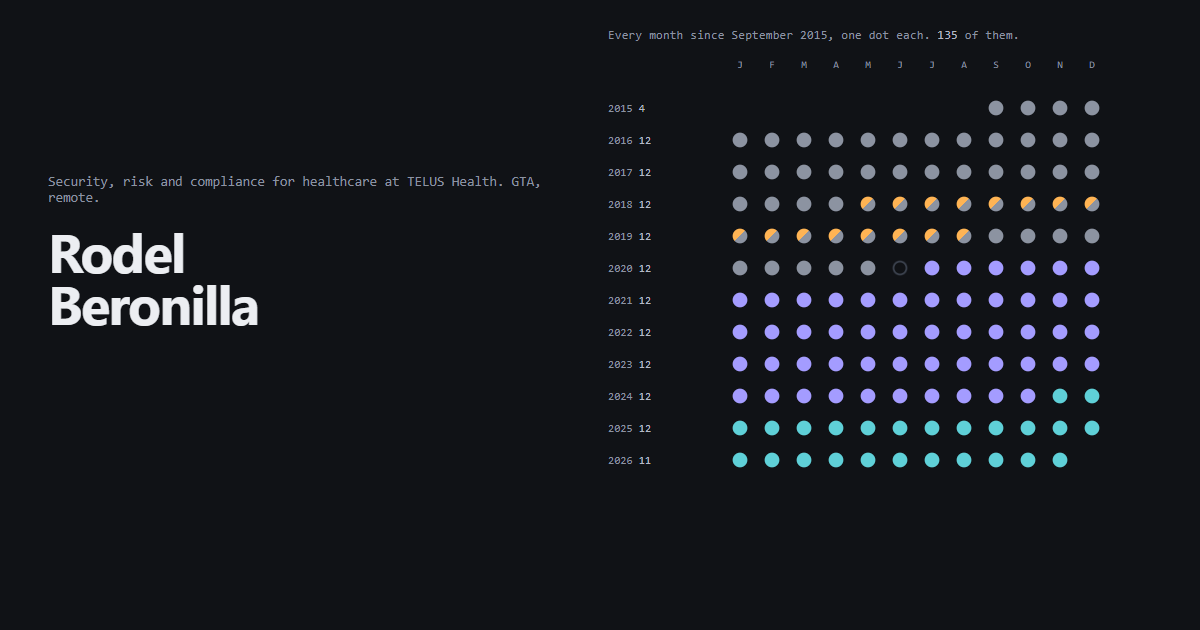
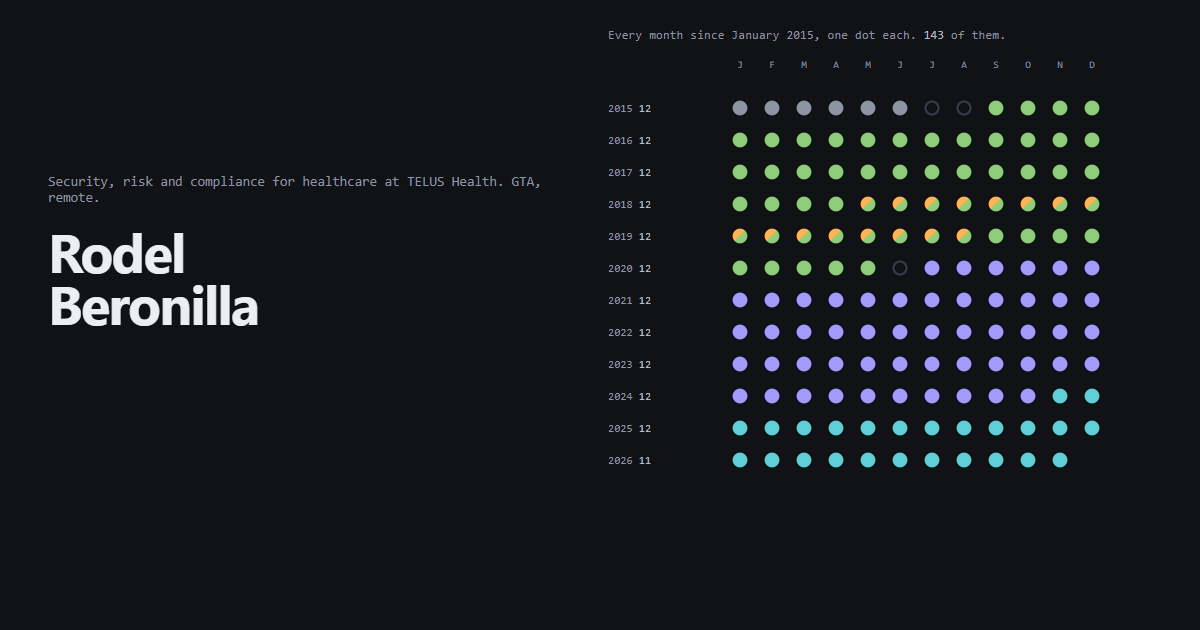
Start the pivot at January 2015 so every year holds twelve months
Adds high school (Jan to Jun 2015) and marks the summer before university as
a gap, alongside the existing gap month in 2020. Ontario Tech moves to its own
colour so the degree is not confused with school. 143 records.

Claude-Session: https://claude.ai/code/session_01HpsUhfHfpNmKf5GR6ja9Rb

diff --git a/site/index.html b/site/index.html
@@ -16,7 +16,7 @@
   <meta property="og:image" content="https://beronilla.rodeo/og.png">
   <meta property="og:image:width" content="1200">
   <meta property="og:image:height" content="630">
-  <meta property="og:image:alt" content="Rodel Beronilla. Every month of study and work since 2015, drawn as a grid of dots and grouped by year.">
+  <meta property="og:image:alt" content="Rodel Beronilla. Every month since January 2015, drawn as a grid of dots and grouped by year.">
   <meta name="twitter:card" content="summary_large_image">
   <meta name="twitter:image" content="https://beronilla.rodeo/og.png">
 
@@ -67,7 +67,7 @@
         </div>
         <figure class="pivot" id="pivot">
           <figcaption class="pivot-head">
-            <p class="pivot-q">Every month since September 2015, one dot each. <span id="pivot-n">135</span> of them.</p>
+            <p class="pivot-q">Every month since January 2015, one dot each. <span id="pivot-n">143</span> of them.</p>
             <div class="pivot-ctrl" role="group" aria-label="Group the months by">
               <span class="pivot-lab" aria-hidden="true">group by</span>
               <button type="button" data-view="year" aria-pressed="true">year</button>
@@ -76,7 +76,7 @@
             </div>
           </figcaption>
           <div class="pivot-plot" id="pivot-plot"></div>
-          <p class="pivot-note">Grouped by year, the columns are months with January on the left. A dot keeps its colour when you regroup, so you can see where the months went. Sixteen were two things at once, the internship running alongside the degree, and those carry both colours.</p>
+          <p class="pivot-note">Grouped by year, the columns are months with January on the left. A dot keeps its colour when you regroup, so you can see where the months went. Sixteen were two things at once, the internship running alongside the degree, and those carry both colours. The hollow ones are the gaps: the summer before university, and the month between graduating and starting at Rogers.</p>
         </figure>
       </div>
     </section>

diff --git a/site/style.css b/site/style.css
@@ -12,6 +12,7 @@
   --accent: light-dark(#0b6b73, #5fd0d8);
   --mark:   light-dark(#9a4d00, #ffb454);
   --violet: light-dark(#4f46c8, #a49cff);
+  --edu:    light-dark(#3f7033, #8fcf7a);
   --sans: system-ui, -apple-system, "Segoe UI", Roboto, "Helvetica Neue", Arial, sans-serif;
   --mono: ui-monospace, "SF Mono", Menlo, Consolas, "Liberation Mono", monospace;
   --ease: cubic-bezier(.2, .75, .25, 1);
@@ -136,11 +137,12 @@ html[data-theme="dark"] .i-moon, html[data-theme="light"] .i-sun { display: none
 .dot { position: absolute; top: 0; left: 0; width: 16px; height: 16px; border-radius: 50%; opacity: 0; transition: transform .6s var(--ease), opacity .4s linear; }
 .is-in .dot { opacity: 1; }
 .no-anim .dot, .no-anim.pivot-plot { transition: none; }
-.c0 { background: var(--muted); }
+.c0 { background: var(--edu); }
 .c1 { background: var(--mark); }
 .c2 { background: var(--violet); }
 .c3 { background: var(--accent); }
-.c1.both { background: linear-gradient(135deg, var(--mark) 0 50%, var(--muted) 50% 100%); }
+.c4 { background: var(--muted); }
+.c1.both { background: linear-gradient(135deg, var(--mark) 0 50%, var(--edu) 50% 100%); }
 .cgap { background: none; box-shadow: inset 0 0 0 2px var(--line-2); }
 .pivot-note { margin-top: 1rem; font-size: clamp(.74rem, .3vw + .68rem, .8rem); line-height: 1.5; color: var(--muted); text-wrap: pretty; }
 

diff --git a/site/app.js b/site/app.js
@@ -169,6 +169,7 @@
   if (plot) {
     var now = new Date();
     var ORGS = [
+      { name: "High school", kind: "Study", c: 4, from: [2015, 1], to: [2015, 6] },
       { name: "Ontario Tech", kind: "Study", c: 0, from: [2015, 9], to: [2020, 5] },
       { name: "Celestica", kind: "Internship", c: 1, from: [2018, 5], to: [2019, 8] },
       { name: "Rogers", kind: "Employed", c: 2, from: [2020, 7], to: [2024, 10] },
@@ -187,8 +188,8 @@
       var lead = on.length ? on[on.length - 1] : null;
       recs.push({
         y: y, m: m,
-        org: lead ? lead.name : "Between roles",
-        kind: lead ? lead.kind : "Between roles",
+        org: lead ? lead.name : "Between",
+        kind: lead ? lead.kind : "Between",
         c: lead ? lead.c : null,
         both: on.length > 1
       });

diff --git a/README.md b/README.md
@@ -8,7 +8,7 @@ It is four static files. No framework, no build step, no bundler, no dependencie
 
 It is built to be fast and quiet. The page is around 15 KB over the wire: system fonts, no images, one stylesheet, one small script, and no third-party requests at all. The footer reads the browser's own timing data and reports what the page actually cost to load. Each section is laid out to fill one screen, so the page reads as six pages rather than one long scroll.
 
-The one interactive thing is the grid of dots in the header. Every calendar month since the degree started in September 2015 is one record, generated in the browser from the dates in the Experience section, and the three buttons group those records by year, by employer, or by kind of engagement. Grouped by year the columns are months, January on the left, so each row is one year of twelve. A dot keeps its colour when the grouping changes, which is what makes the regrouping worth watching: the sixteen months where the internship ran alongside the degree carry both colours, and the single hollow dot is the month between graduating and starting the next job. It is a pivot table that happens to be drawn as dots, and it stops moving as soon as it has arrived.
+The one interactive thing is the grid of dots in the header. Every calendar month since January 2015 is one record, generated in the browser from the dates in the Experience section, and the three buttons group those records by year, by employer, or by kind of engagement. Grouped by year the columns are months, January on the left, so each row is one year of twelve. A dot keeps its colour when the grouping changes, which is what makes the regrouping worth watching: the sixteen months where the internship ran alongside the degree carry both colours, and the hollow dots are the gaps: the summer between school and university, and the month between graduating and starting the next job. It is a pivot table that happens to be drawn as dots, and it stops moving as soon as it has arrived.
 
 | Path | What it is |
 |------|------------|
